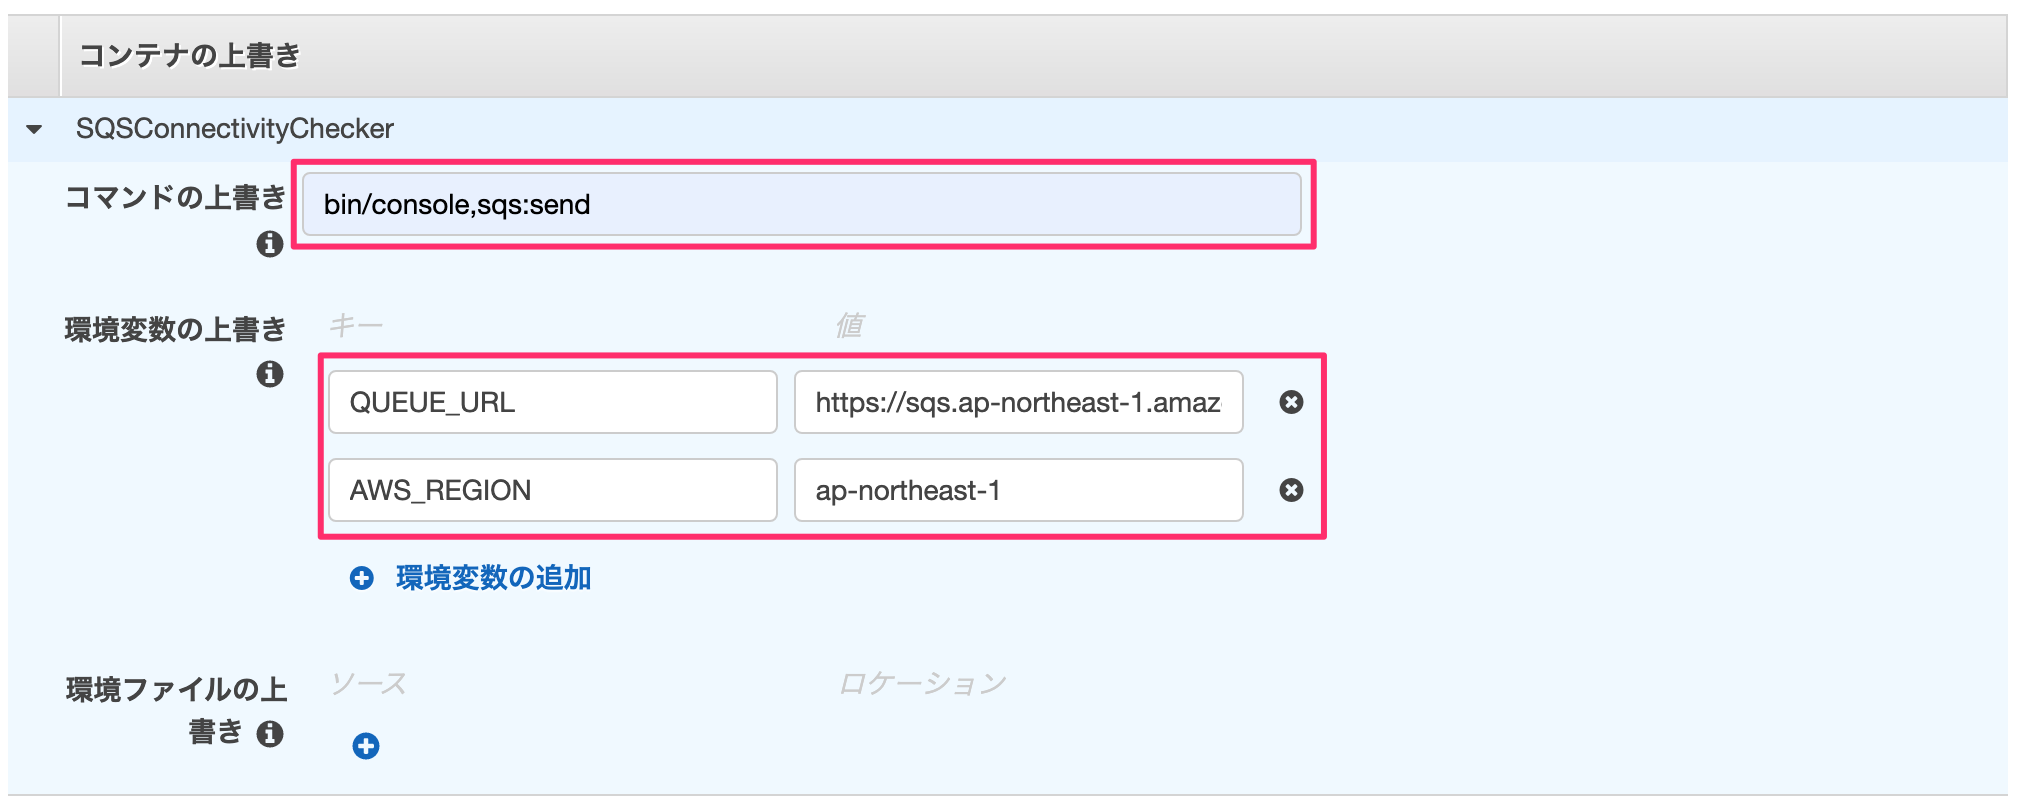
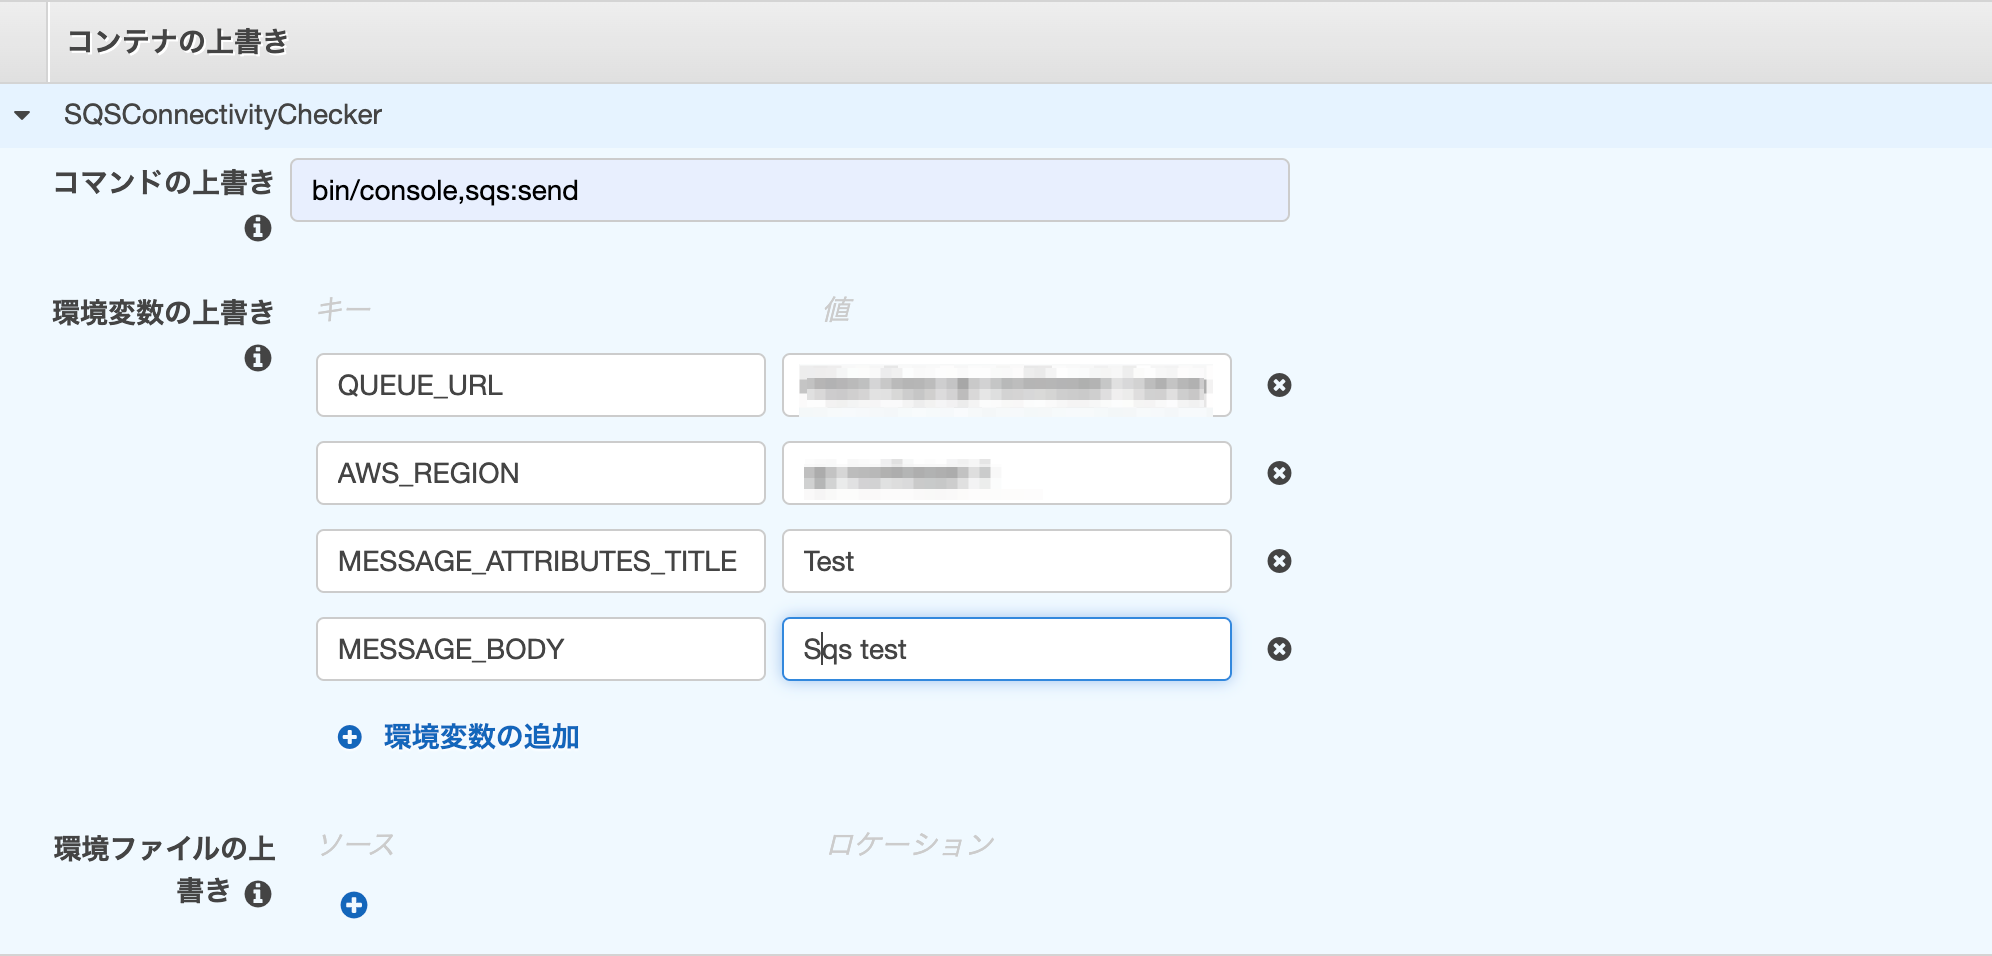
ローカルでの実行方法をREADMEに追加

diff --git a/README.md b/README.md
@@ -1,48 +1,82 @@
 # SQS-Connectivity-Checker
 
-ECRとSQSの疎通を確認します。
-タスクとして実行することを想定しています。
+ECRとSQSの疎通を確認します。  
 
 ## 環境構築
 
 ```shell
 $ composer install
 ```
+## 実行方法
 
-## ローカルでDockerを使用して確認
+- [ローカルで実行](#ローカルで実行)
+- [Dockerを使用して実行](#Dockerを使用して実行)
+- [ECSタスクとして実行](#ECSタスクとして実行)
 
-1. `docker build`でイメージ作成
-1. `docker run`でSymfony コマンド実行
+## ローカルで実行
 
-### Dockerイメージ作成
+- クレデンシャルはローカルの`default`を使用  
+  ref. [Configuration and credential file settings](https://docs.aws.amazon.com/cli/latest/userguide/cli-configure-files.html)
+- `.env`に変数を設定
+
+### 送信
+
+```shell
+$ bin/console sqs:send
+````
+
+### 受信
+
+```shell
+$ bin/console sqs:receive
+````
+
+## Dockerを使用して実行
+
+1. `docker build`でイメージを作成
+1.  シェル変数にプロファイルを設定
+1. `docker run`でSymfony コマンドを実行
+
+### Dockerイメージを作成
 
 ```sh
 $ docker build -t {{image_name}} .
 ```
 
-### クレデンシャル準備
+### シェル変数にプロファイルを設定
+
+シェル変数にリージョンとクレデンシャルを設定します。  
+（`default`のプロファイルを使用する場合は以下のように設定できます。）
+
 
 ```shell
-# シェル変数にローカルの`default`のクレデンシャルを設定
+# シェル変数にdefualtプロファイルのリージョンとクレデンシャルを設定
 AWS_REGION=$(aws configure get region)
 AWS_ACCESS_KEY_ID=$(aws configure get aws_access_key_id)
 AWS_SECRET_ACCESS_KEY=$(aws configure get aws_secret_access_key)
 ```
 
-### 送信確認
+
+- 参考：[Configuration and credential file settings](https://docs.aws.amazon.com/cli/latest/userguide/cli-configure-files.html)
+
+### 送信
 
 Symfony Command：sqs:send
 
 ```shell
 # -eでSQSキューのURLと↑でシェル変数に格納したクレデンシャルをコンテナに環境変数として渡す
 $ docker run -e QUEUE_URL={{キューURL}} \
+             -e MESSAGE_ATTRIBUTES_TITLE={{タイトル}} \
+             -e MESSAGE_BODY={{メッセージボディ}} \
              -e AWS_REGION=$AWS_REGION \
              -e AWS_ACCESS_KEY_ID=$AWS_ACCESS_KEY_ID \
              -e AWS_SECRET_ACCESS_KEY=$AWS_SECRET_ACCESS_KEY \
              {{image name}} bin/console sqs:send
 ````
 
-### 受信確認
+`MESSAGE_ATTRIBUTES_TITLE`、`MESSAGE_BODY`を省略した場合は`.env`ファイルの値が使用されます。
+
+### 受信
 
 Symfony Command：sqs:receive
 
@@ -55,13 +89,13 @@ $ docker run -e QUEUE_URL={{キューURL}} \
              {{image name}} bin/console sqs:receive
 ````
 
-## AWS ECSを使用して確認
+## ECSタスクとして実行
 
 1. ECRにリポジトリを作成＆イメージをPush
 1. （必要なら）クラスタを作成
 1. タスク定義を作成
 1. タスクを実行
 
-タスクを実行する際に以下のようにコンテナを上書きします（例:sqs:send）
+タスクを実行する際にコンテナの環境変数を上書きします（例:sqs:send）
 
 ![コンテナを上書き](aws-ecs.png)
